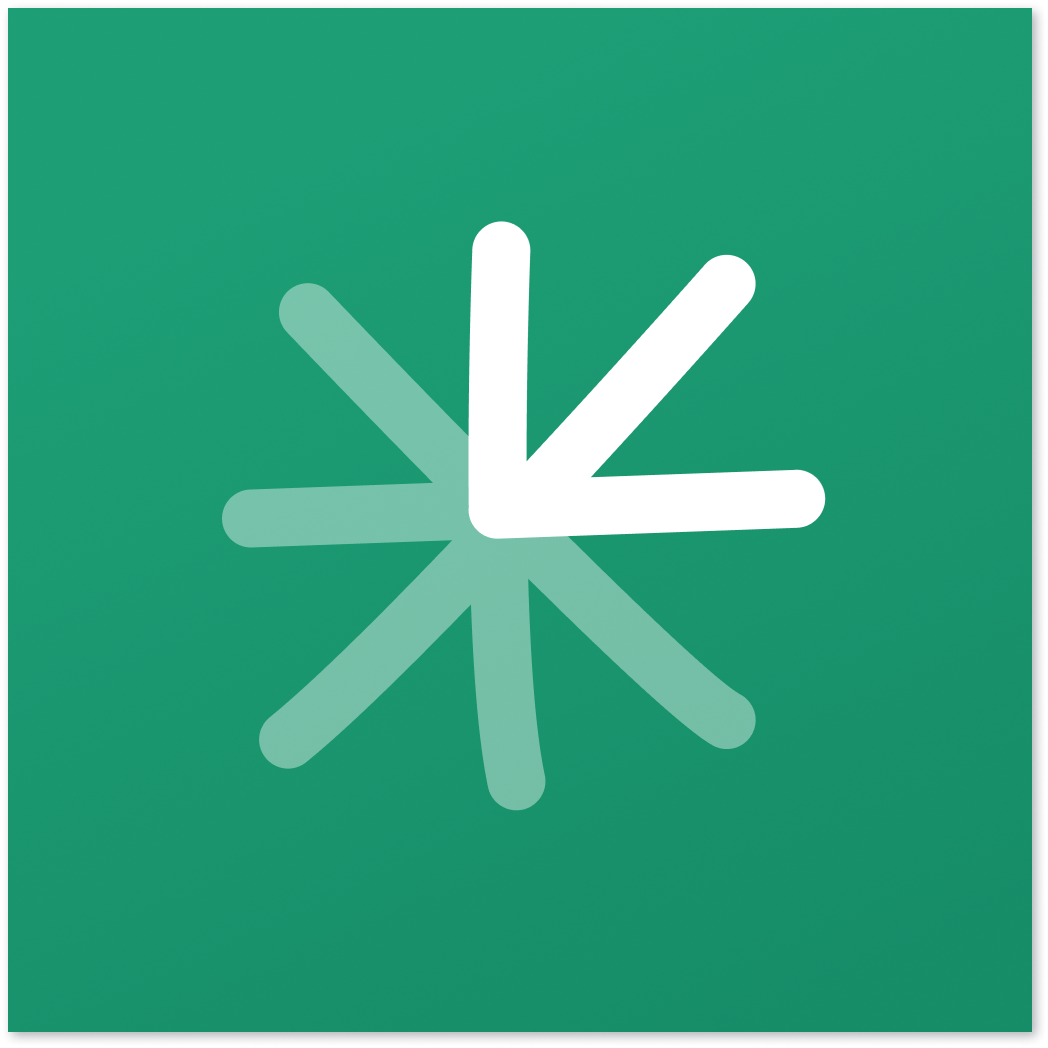
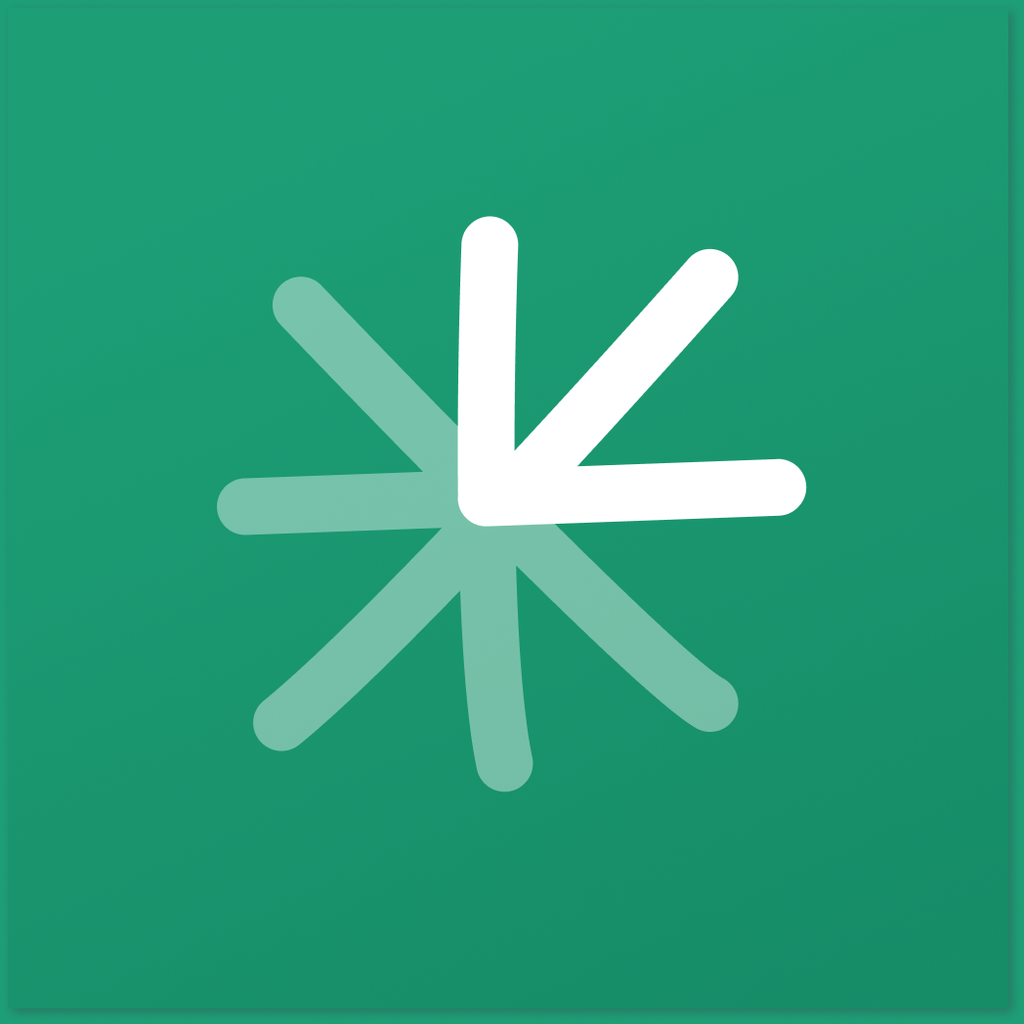
fix(verify): 개인 목표 설정 오류 처리 및 스크린 타임 설정 딥링크 개선 (#119)
* chore(assets): 앱 아이콘 업데이트

Confidence: high
Scope-risk: narrow

* fix(verify): 스크린 타임 설정 딥링크 URL 순서 및 폴백 개선

- prefs:root=SCREEN_TIME를 최우선으로 시도 (iOS 최신 버전 호환성)
- 모든 딥링크 실패 시 일반 Settings 열기로 폴백
- 최후 수단으로 Linking.openSettings() 사용 (App Review 안전)
- tryOpen 헬퍼로 중복 try-catch 제거

Confidence: high
Scope-risk: narrow

* fix(verify): 개인 목표 설정 저장 실패 시 오류 처리 추가

- 빈 catch 블록으로 인해 API 오류가 조용히 사라지던 문제 수정
- 저장 중 로딩 상태 추가로 중복 탭 방지 및 버튼 피드백 제공
- 오류 발생 시 Alert와 logError로 원인 파악 가능하도록 개선

Confidence: high
Scope-risk: narrow

---------

Changed region(s): [[0.0, 0.0, 1.0, 1.0]]

diff --git a/src/screens/group/verify/VerifyDoneScreen.tsx b/src/screens/group/verify/VerifyDoneScreen.tsx
@@ -1,9 +1,11 @@
 import { router, useLocalSearchParams } from 'expo-router';
+import { useState } from 'react';
 import { Alert, Image, Pressable, StyleSheet, Text, View } from 'react-native';
 
 import ONBOARDING_CHECK_IMAGE from '@assets/onboarding-check.png';
 
 import { getFeed, getFirstScreenTime } from '@/api';
+import { logError, normalizeError } from '@/api/errors';
 import { getGroupChallenge } from '@/api/generated/group-challenge/group-challenge';
 import { Button, Icon, LoggingButton, LoggingPage } from '@/components';
 import { submitTotalUsageActivityRecord } from '@/features/activity-record/submitTotalUsageActivityRecord';
@@ -57,6 +59,7 @@ export default function VerifyDoneScreen() {
     ocrImageObjectKey?: string;
     ocrRecordDate?: string;
   }>();
+  const [isSavingGoal, setIsSavingGoal] = useState(false);
   const display = formatHHMMToDisplay(value);
   const isVerifyMode = mode === 'verify';
   const valueMinutes = parseHHMMToMinutes(value);
@@ -82,11 +85,13 @@ export default function VerifyDoneScreen() {
   };
 
   const handleSetGoal = async () => {
+    if (isSavingGoal) return;
     if (valueMinutes == null) {
       Alert.alert('저장 실패', '스크린타임 값을 읽을 수 없습니다.');
       return;
     }
 
+    setIsSavingGoal(true);
     try {
       const participantId = await resolveParticipantId();
       if (participantId == null) {
@@ -104,7 +109,12 @@ export default function VerifyDoneScreen() {
         pathname: '/(group)/goal',
         params: value ? { value } : undefined,
       });
-    } catch {}
+    } catch (error) {
+      logError(normalizeError(error), { scope: 'verify.done', operation: 'setGoal' });
+      Alert.alert('저장 실패', '오류가 발생했습니다. 잠시 후 다시 시도해주세요.');
+    } finally {
+      setIsSavingGoal(false);
+    }
   };
 
   const handleSkip = async () => {
@@ -182,9 +192,10 @@ export default function VerifyDoneScreen() {
               }}
             >
               <Button
-                label="개인 목표 설정하기"
+                label={isSavingGoal ? '저장 중...' : '개인 목표 설정하기'}
                 color="primary"
                 onPress={handleSetGoal}
+                disabled={isSavingGoal}
                 style={styles.button}
               />
             </LoggingButton>

diff --git a/src/screens/group/verify/useVerifyMethodNavigation.ts b/src/screens/group/verify/useVerifyMethodNavigation.ts
@@ -6,20 +6,46 @@ import { AppState } from 'react-native';
 import { pickImageFromLibrary } from './useImageLibraryPicker';
 import { buildVerifyFlowParams, getVerifyPath, type VerifyFlowParams } from './verifyFlowParams';
 
+// Ordered most-specific → least-specific. iOS recognizes different Settings
+// deep-link schemes depending on the OS version, so we try several variants.
+// The `prefs:` prefix works on a wider range of recent iOS versions than
+// `App-Prefs:`, so it is tried first.
 const SCREEN_TIME_SETTINGS_URLS = [
+  'prefs:root=SCREEN_TIME',
   'App-Prefs:root=SCREEN_TIME',
   'App-Prefs:SCREEN_TIME',
-  'App-Prefs:',
+  'prefs:root=ScreenTime',
 ];
+
+// Last-resort fallbacks that only open Settings to its previous (possibly
+// nested) state — used when no Screen Time deep link is accepted.
+const SETTINGS_ROOT_FALLBACK_URLS = ['prefs:', 'App-Prefs:'];
+
+async function tryOpen(url: string): Promise<boolean> {
+  try {
+    await Linking.openURL(url);
+    return true;
+  } catch {
+    return false;
+  }
+}
 
 async function openScreenTimeSettings() {
   for (const url of SCREEN_TIME_SETTINGS_URLS) {
-    try {
-      await Linking.openURL(url);
-      return;
-    } catch {
-      // Try the next known Settings URL. iOS Settings deep links vary by OS version.
-    }
+    if (await tryOpen(url)) return;
+  }
+
+  // Could not deep-link into Screen Time on this iOS version.
+  for (const url of SETTINGS_ROOT_FALLBACK_URLS) {
+    if (await tryOpen(url)) return;
+  }
+
+  // Officially documented API. Opens this app's own settings page; guaranteed
+  // not to be rejected by App Review.
+  try {
+    await Linking.openSettings();
+  } catch {
+    // Nothing more we can do.
   }
 }
 
